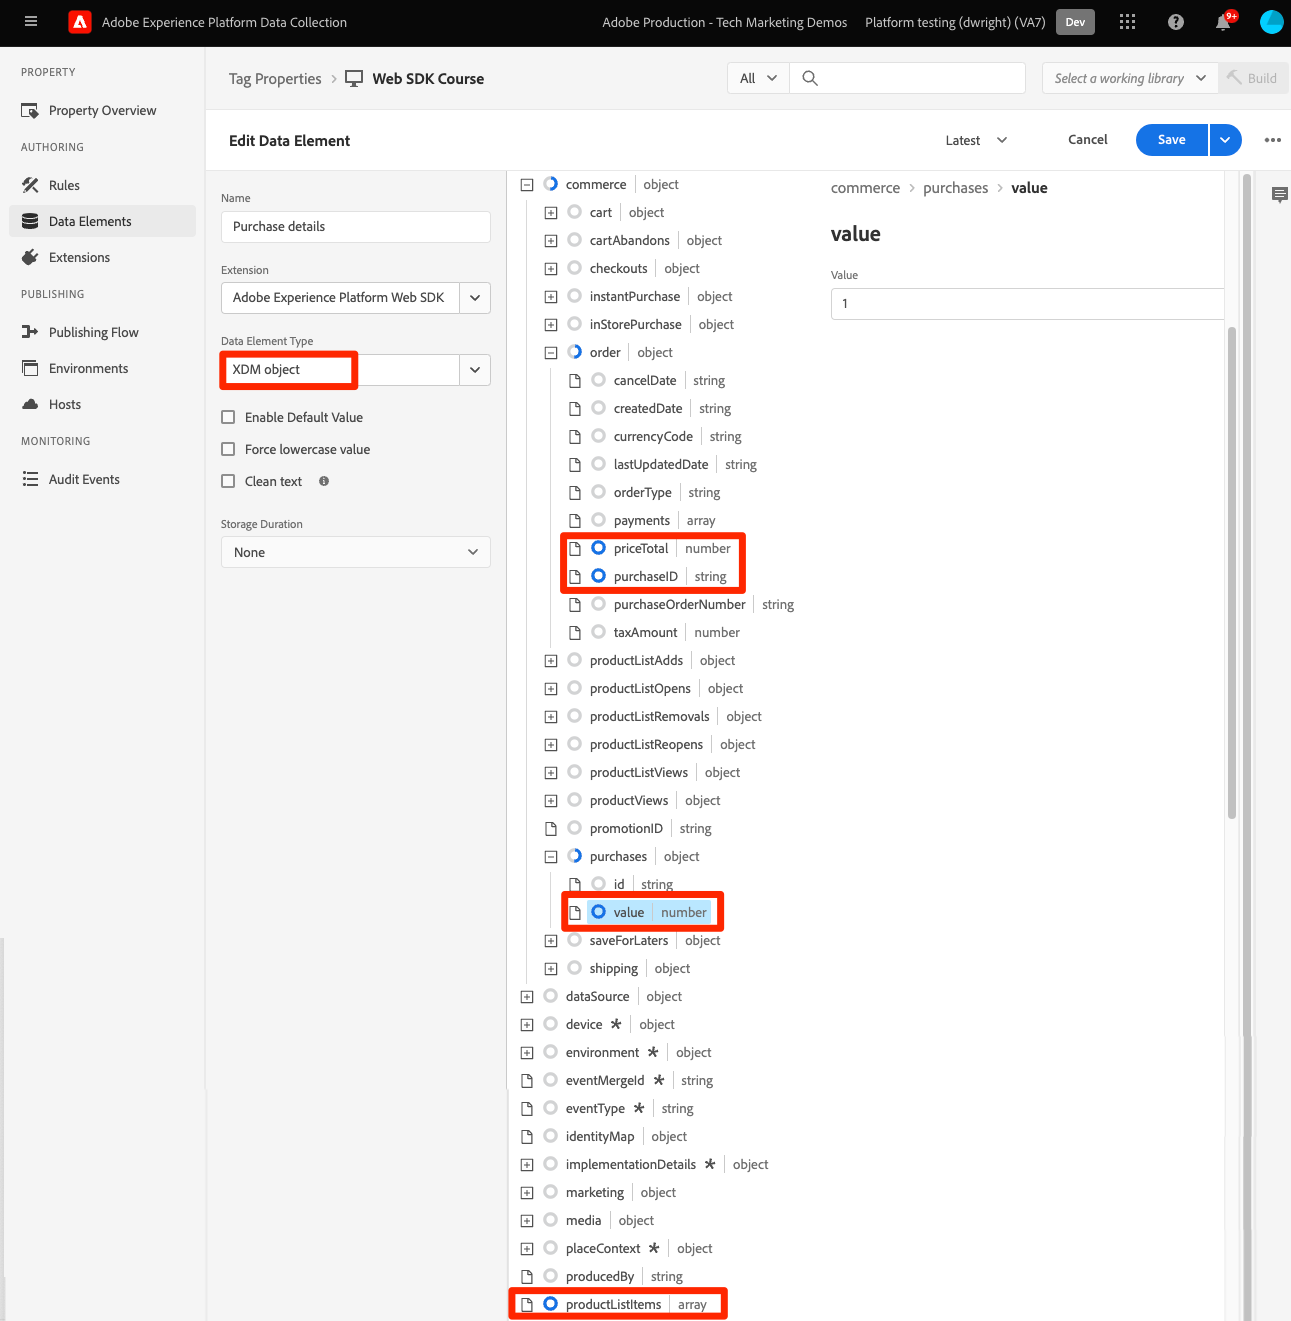
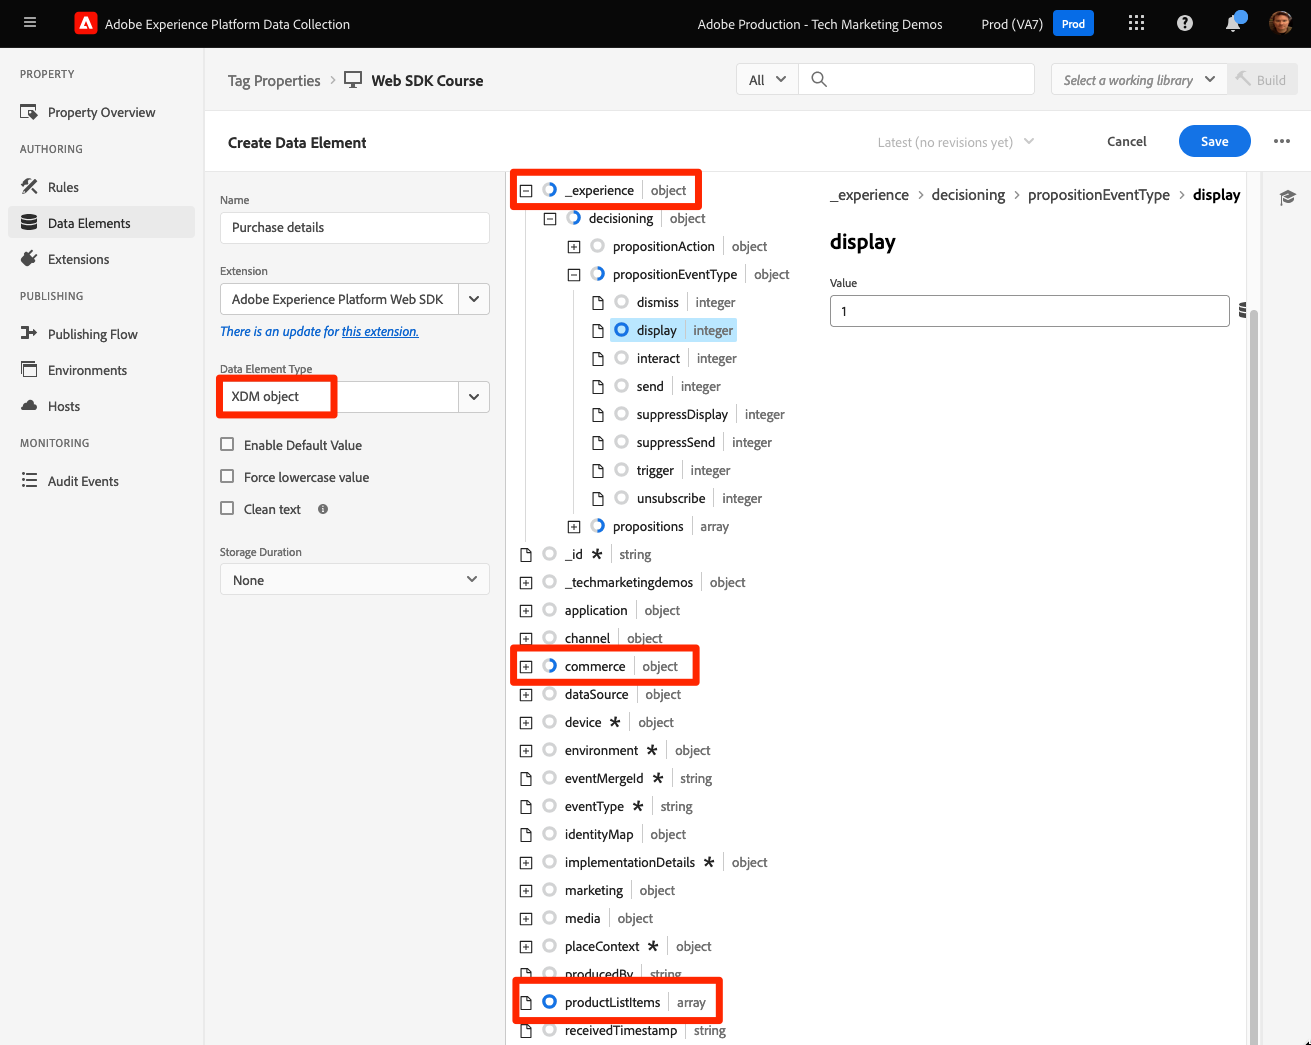
updates to order mbox and primary id

diff --git a/help/tutorial-migrate-target-websdk/send-parameters.md b/help/tutorial-migrate-target-websdk/send-parameters.md
@@ -300,7 +300,7 @@ targetPageParams = function() {
 
 Purchase information is passed to Target when the `commerce` field group has `purchases.value` set to `1`. The order ID and order total are automatically mapped from the `order` object. If the `productListItems` array is present, then the `SKU` values are use for `productPurchasedId`.
 
-Platform Web SDK examples using `sendEvent` command:
+Platform Web SDK example using `sendEvent`:
 
 >[!BEGINTABS]
 
@@ -322,14 +322,24 @@ alloy("sendEvent", {
       "SKU": "SKU-00002"
     }, {
       "SKU": "SKU-00003"
-    }]
+    }],
+      "_experience": {
+          "decisioning": {
+              "propositions": [{
+                  "scope": "<your_mbox>"
+              }],
+              "propositionEventType": {
+                  "display": 1
+              }
+          }
+      }
   }
 });
 ```
 
 >[!TAB Tags]
 
-In tags, first use an [!UICONTROL XDM object] data element to map to the XDM fields:
+In tags, first use an [!UICONTROL XDM object] data element to map to the required XDM fields (see the JavaScript example) and optional custom scope:
 
 ![Mapping to an XDM field in an XDM Object data element](assets/params-tags-purchase.png){zoomable="yes"}
 
@@ -339,6 +349,13 @@ And then include your [!UICONTROL XDM object] in your [!UICONTROL Send event] [!
 
 >[!ENDTABS]
 
+>[!IMPORTANT]
+>
+> `_experience.decisioning.propositionEventType` must be set with `display: 1` in order for the call to be used to increment a Target metric.
+
+>[!NOTE]
+>
+> If you wish to use a custom location/mbox name in your Target metric definition, for example `orderConfirmPage`, populate the `_experience.decisioning.propositions` array with a custom scope like in the example above.
 
 >[!NOTE]
 >
@@ -378,7 +395,8 @@ alloy("sendEvent", {
     "identityMap": {
       "GLOBAL_CUSTOMER_ID": [{
         "id": "TT8675309",
-        "authenticatedState": "authenticated"
+        "authenticatedState": "authenticated",
+        "primary": true
       }]
     }
   }
@@ -401,6 +419,12 @@ In your datastream's Adobe Target service, be sure to set the [!UICONTROL Target
 ![Set the Target Third Party ID Namespace in the datastream](assets/params-tags-customerIdNamespaceInDatastream.png){zoomable="yes"}
 
 >[!ENDTABS]
+
+>[!NOTE]
+>
+> Adobe recommends sending namespaces which represent a person, such as authenticated identities, as the primary identity.
+
+
 
 ## Platform Web SDK example
 
@@ -452,7 +476,8 @@ Now that you understand how the different Target parameters are mapped using the
         "identityMap": {
           "GLOBAL_CUSTOMER_ID": [{
             "id": "TT8675309",
-            "authenticatedState": "authenticated"
+            "authenticatedState": "authenticated",
+            "primary": true
           }]
         },
         "web": {
@@ -528,7 +553,8 @@ Now that you understand how the different Target parameters are mapped using the
         "identityMap": {
           "GLOBAL_CUSTOMER_ID": [{
             "id": "TT8675309",
-            "authenticatedState": "authenticated"
+            "authenticatedState": "authenticated",
+            "primary": true
           }]
         },
         "commerce": {
@@ -544,7 +570,17 @@ Now that you understand how the different Target parameters are mapped using the
           "SKU": "SKU-00002"
         }, {
           "SKU": "SKU-00003"
-        }]
+        }],
+        "_experience": {
+            "decisioning": {
+                "propositions": [{
+                    "scope": "<your_mbox>"
+                }],
+                "propositionEventType": {
+                    "display": 1
+                }
+            }
+        }
       }
     });
   </script>
